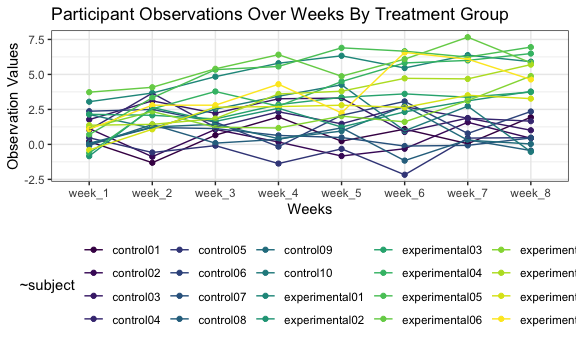
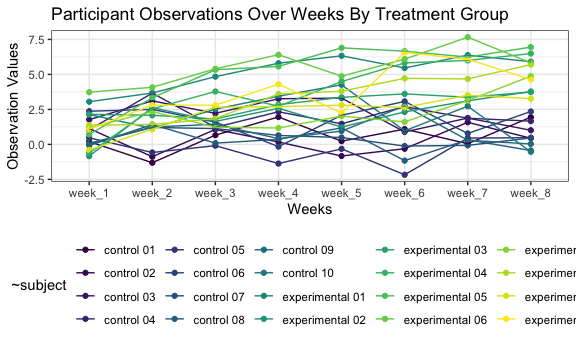
comments for spaghetti plot

diff --git a/p8105_hw5_hmb2161.md b/p8105_hw5_hmb2161.md
@@ -290,181 +290,182 @@ prob_data = tibble(
 
 prob_data =
 pivot_longer(prob_data, 
-             week_1:week_8,                  # pivoting longer to make each column a variable
+             week_1:week_8,                            # pivoting longer to make each column a variable
              names_to = "week",
               values_to = "observations") %>%
-  mutate(subject = str_remove(subject, "./hw5_data/"), # removing the beginning of the subject column
+  mutate(subject = str_remove(subject, "./hw5_data/"),    # removing beginning/end of the subject column
          subject = str_remove(subject, ".csv"),
-         subject = str_replace(subject, "con_", "control"),
-         subject = str_replace(subject, "exp_", "experimental")) %>% # and removing the beginning of the path of "subject"
-  select(subject, week, observations)
+         subject = str_replace(subject, "con_", "control "), # changing prefixes to full study arm
+         subject = str_replace(subject, "exp_", "experimental ")) %>% 
+  select(subject, week, observations)                   # selecting in the order I want  
 
-
-knitr::kable(prob_data)
+knitr::kable(prob_data)  # making a nice table
 ```
 
-| subject        | week    | observations |
-| :------------- | :------ | -----------: |
-| control01      | week\_1 |         0.20 |
-| control01      | week\_2 |       \-1.31 |
-| control01      | week\_3 |         0.66 |
-| control01      | week\_4 |         1.96 |
-| control01      | week\_5 |         0.23 |
-| control01      | week\_6 |         1.09 |
-| control01      | week\_7 |         0.05 |
-| control01      | week\_8 |         1.94 |
-| control02      | week\_1 |         1.13 |
-| control02      | week\_2 |       \-0.88 |
-| control02      | week\_3 |         1.07 |
-| control02      | week\_4 |         0.17 |
-| control02      | week\_5 |       \-0.83 |
-| control02      | week\_6 |       \-0.31 |
-| control02      | week\_7 |         1.58 |
-| control02      | week\_8 |         0.44 |
-| control03      | week\_1 |         1.77 |
-| control03      | week\_2 |         3.11 |
-| control03      | week\_3 |         2.22 |
-| control03      | week\_4 |         3.26 |
-| control03      | week\_5 |         3.31 |
-| control03      | week\_6 |         0.89 |
-| control03      | week\_7 |         1.88 |
-| control03      | week\_8 |         1.01 |
-| control04      | week\_1 |         1.04 |
-| control04      | week\_2 |         3.66 |
-| control04      | week\_3 |         1.22 |
-| control04      | week\_4 |         2.33 |
-| control04      | week\_5 |         1.47 |
-| control04      | week\_6 |         2.70 |
-| control04      | week\_7 |         1.87 |
-| control04      | week\_8 |         1.66 |
-| control05      | week\_1 |         0.47 |
-| control05      | week\_2 |       \-0.58 |
-| control05      | week\_3 |       \-0.09 |
-| control05      | week\_4 |       \-1.37 |
-| control05      | week\_5 |       \-0.32 |
-| control05      | week\_6 |       \-2.17 |
-| control05      | week\_7 |         0.45 |
-| control05      | week\_8 |         0.48 |
-| control06      | week\_1 |         2.37 |
-| control06      | week\_2 |         2.50 |
-| control06      | week\_3 |         1.59 |
-| control06      | week\_4 |       \-0.16 |
-| control06      | week\_5 |         2.08 |
-| control06      | week\_6 |         3.07 |
-| control06      | week\_7 |         0.78 |
-| control06      | week\_8 |         2.35 |
-| control07      | week\_1 |         0.03 |
-| control07      | week\_2 |         1.21 |
-| control07      | week\_3 |         1.13 |
-| control07      | week\_4 |         0.64 |
-| control07      | week\_5 |         0.49 |
-| control07      | week\_6 |       \-0.12 |
-| control07      | week\_7 |       \-0.07 |
-| control07      | week\_8 |         0.46 |
-| control08      | week\_1 |       \-0.08 |
-| control08      | week\_2 |         1.42 |
-| control08      | week\_3 |         0.09 |
-| control08      | week\_4 |         0.36 |
-| control08      | week\_5 |         1.18 |
-| control08      | week\_6 |       \-1.16 |
-| control08      | week\_7 |         0.33 |
-| control08      | week\_8 |       \-0.44 |
-| control09      | week\_1 |         0.08 |
-| control09      | week\_2 |         1.24 |
-| control09      | week\_3 |         1.44 |
-| control09      | week\_4 |         0.41 |
-| control09      | week\_5 |         0.95 |
-| control09      | week\_6 |         2.75 |
-| control09      | week\_7 |         0.30 |
-| control09      | week\_8 |         0.03 |
-| control10      | week\_1 |         2.14 |
-| control10      | week\_2 |         1.15 |
-| control10      | week\_3 |         2.52 |
-| control10      | week\_4 |         3.44 |
-| control10      | week\_5 |         4.26 |
-| control10      | week\_6 |         0.97 |
-| control10      | week\_7 |         2.73 |
-| control10      | week\_8 |       \-0.53 |
-| experimental01 | week\_1 |         3.05 |
-| experimental01 | week\_2 |         3.67 |
-| experimental01 | week\_3 |         4.84 |
-| experimental01 | week\_4 |         5.80 |
-| experimental01 | week\_5 |         6.33 |
-| experimental01 | week\_6 |         5.46 |
-| experimental01 | week\_7 |         6.38 |
-| experimental01 | week\_8 |         5.91 |
-| experimental02 | week\_1 |       \-0.84 |
-| experimental02 | week\_2 |         2.63 |
-| experimental02 | week\_3 |         1.64 |
-| experimental02 | week\_4 |         2.58 |
-| experimental02 | week\_5 |         1.24 |
-| experimental02 | week\_6 |         2.32 |
-| experimental02 | week\_7 |         3.11 |
-| experimental02 | week\_8 |         3.78 |
-| experimental03 | week\_1 |         2.15 |
-| experimental03 | week\_2 |         2.08 |
-| experimental03 | week\_3 |         1.82 |
-| experimental03 | week\_4 |         2.84 |
-| experimental03 | week\_5 |         3.36 |
-| experimental03 | week\_6 |         3.61 |
-| experimental03 | week\_7 |         3.37 |
-| experimental03 | week\_8 |         3.74 |
-| experimental04 | week\_1 |       \-0.62 |
-| experimental04 | week\_2 |         2.54 |
-| experimental04 | week\_3 |         3.78 |
-| experimental04 | week\_4 |         2.73 |
-| experimental04 | week\_5 |         4.49 |
-| experimental04 | week\_6 |         5.82 |
-| experimental04 | week\_7 |         6.00 |
-| experimental04 | week\_8 |         6.49 |
-| experimental05 | week\_1 |         0.70 |
-| experimental05 | week\_2 |         3.33 |
-| experimental05 | week\_3 |         5.34 |
-| experimental05 | week\_4 |         5.57 |
-| experimental05 | week\_5 |         6.90 |
-| experimental05 | week\_6 |         6.66 |
-| experimental05 | week\_7 |         6.24 |
-| experimental05 | week\_8 |         6.95 |
-| experimental06 | week\_1 |         3.73 |
-| experimental06 | week\_2 |         4.08 |
-| experimental06 | week\_3 |         5.40 |
-| experimental06 | week\_4 |         6.41 |
-| experimental06 | week\_5 |         4.87 |
-| experimental06 | week\_6 |         6.09 |
-| experimental06 | week\_7 |         7.66 |
-| experimental06 | week\_8 |         5.83 |
-| experimental07 | week\_1 |         1.18 |
-| experimental07 | week\_2 |         2.35 |
-| experimental07 | week\_3 |         1.23 |
-| experimental07 | week\_4 |         1.17 |
-| experimental07 | week\_5 |         2.02 |
-| experimental07 | week\_6 |         1.61 |
-| experimental07 | week\_7 |         3.13 |
-| experimental07 | week\_8 |         4.88 |
-| experimental08 | week\_1 |         1.37 |
-| experimental08 | week\_2 |         1.43 |
-| experimental08 | week\_3 |         1.84 |
-| experimental08 | week\_4 |         3.60 |
-| experimental08 | week\_5 |         3.80 |
-| experimental08 | week\_6 |         4.72 |
-| experimental08 | week\_7 |         4.68 |
-| experimental08 | week\_8 |         5.70 |
-| experimental09 | week\_1 |       \-0.40 |
-| experimental09 | week\_2 |         1.08 |
-| experimental09 | week\_3 |         2.66 |
-| experimental09 | week\_4 |         2.70 |
-| experimental09 | week\_5 |         2.80 |
-| experimental09 | week\_6 |         2.64 |
-| experimental09 | week\_7 |         3.51 |
-| experimental09 | week\_8 |         3.27 |
-| experimental10 | week\_1 |         1.09 |
-| experimental10 | week\_2 |         2.80 |
-| experimental10 | week\_3 |         2.80 |
-| experimental10 | week\_4 |         4.30 |
-| experimental10 | week\_5 |         2.25 |
-| experimental10 | week\_6 |         6.57 |
-| experimental10 | week\_7 |         6.09 |
-| experimental10 | week\_8 |         4.64 |
+| subject         | week    | observations |
+| :-------------- | :------ | -----------: |
+| control 01      | week\_1 |         0.20 |
+| control 01      | week\_2 |       \-1.31 |
+| control 01      | week\_3 |         0.66 |
+| control 01      | week\_4 |         1.96 |
+| control 01      | week\_5 |         0.23 |
+| control 01      | week\_6 |         1.09 |
+| control 01      | week\_7 |         0.05 |
+| control 01      | week\_8 |         1.94 |
+| control 02      | week\_1 |         1.13 |
+| control 02      | week\_2 |       \-0.88 |
+| control 02      | week\_3 |         1.07 |
+| control 02      | week\_4 |         0.17 |
+| control 02      | week\_5 |       \-0.83 |
+| control 02      | week\_6 |       \-0.31 |
+| control 02      | week\_7 |         1.58 |
+| control 02      | week\_8 |         0.44 |
+| control 03      | week\_1 |         1.77 |
+| control 03      | week\_2 |         3.11 |
+| control 03      | week\_3 |         2.22 |
+| control 03      | week\_4 |         3.26 |
+| control 03      | week\_5 |         3.31 |
+| control 03      | week\_6 |         0.89 |
+| control 03      | week\_7 |         1.88 |
+| control 03      | week\_8 |         1.01 |
+| control 04      | week\_1 |         1.04 |
+| control 04      | week\_2 |         3.66 |
+| control 04      | week\_3 |         1.22 |
+| control 04      | week\_4 |         2.33 |
+| control 04      | week\_5 |         1.47 |
+| control 04      | week\_6 |         2.70 |
+| control 04      | week\_7 |         1.87 |
+| control 04      | week\_8 |         1.66 |
+| control 05      | week\_1 |         0.47 |
+| control 05      | week\_2 |       \-0.58 |
+| control 05      | week\_3 |       \-0.09 |
+| control 05      | week\_4 |       \-1.37 |
+| control 05      | week\_5 |       \-0.32 |
+| control 05      | week\_6 |       \-2.17 |
+| control 05      | week\_7 |         0.45 |
+| control 05      | week\_8 |         0.48 |
+| control 06      | week\_1 |         2.37 |
+| control 06      | week\_2 |         2.50 |
+| control 06      | week\_3 |         1.59 |
+| control 06      | week\_4 |       \-0.16 |
+| control 06      | week\_5 |         2.08 |
+| control 06      | week\_6 |         3.07 |
+| control 06      | week\_7 |         0.78 |
+| control 06      | week\_8 |         2.35 |
+| control 07      | week\_1 |         0.03 |
+| control 07      | week\_2 |         1.21 |
+| control 07      | week\_3 |         1.13 |
+| control 07      | week\_4 |         0.64 |
+| control 07      | week\_5 |         0.49 |
+| control 07      | week\_6 |       \-0.12 |
+| control 07      | week\_7 |       \-0.07 |
+| control 07      | week\_8 |         0.46 |
+| control 08      | week\_1 |       \-0.08 |
+| control 08      | week\_2 |         1.42 |
+| control 08      | week\_3 |         0.09 |
+| control 08      | week\_4 |         0.36 |
+| control 08      | week\_5 |         1.18 |
+| control 08      | week\_6 |       \-1.16 |
+| control 08      | week\_7 |         0.33 |
+| control 08      | week\_8 |       \-0.44 |
+| control 09      | week\_1 |         0.08 |
+| control 09      | week\_2 |         1.24 |
+| control 09      | week\_3 |         1.44 |
+| control 09      | week\_4 |         0.41 |
+| control 09      | week\_5 |         0.95 |
+| control 09      | week\_6 |         2.75 |
+| control 09      | week\_7 |         0.30 |
+| control 09      | week\_8 |         0.03 |
+| control 10      | week\_1 |         2.14 |
+| control 10      | week\_2 |         1.15 |
+| control 10      | week\_3 |         2.52 |
+| control 10      | week\_4 |         3.44 |
+| control 10      | week\_5 |         4.26 |
+| control 10      | week\_6 |         0.97 |
+| control 10      | week\_7 |         2.73 |
+| control 10      | week\_8 |       \-0.53 |
+| experimental 01 | week\_1 |         3.05 |
+| experimental 01 | week\_2 |         3.67 |
+| experimental 01 | week\_3 |         4.84 |
+| experimental 01 | week\_4 |         5.80 |
+| experimental 01 | week\_5 |         6.33 |
+| experimental 01 | week\_6 |         5.46 |
+| experimental 01 | week\_7 |         6.38 |
+| experimental 01 | week\_8 |         5.91 |
+| experimental 02 | week\_1 |       \-0.84 |
+| experimental 02 | week\_2 |         2.63 |
+| experimental 02 | week\_3 |         1.64 |
+| experimental 02 | week\_4 |         2.58 |
+| experimental 02 | week\_5 |         1.24 |
+| experimental 02 | week\_6 |         2.32 |
+| experimental 02 | week\_7 |         3.11 |
+| experimental 02 | week\_8 |         3.78 |
+| experimental 03 | week\_1 |         2.15 |
+| experimental 03 | week\_2 |         2.08 |
+| experimental 03 | week\_3 |         1.82 |
+| experimental 03 | week\_4 |         2.84 |
+| experimental 03 | week\_5 |         3.36 |
+| experimental 03 | week\_6 |         3.61 |
+| experimental 03 | week\_7 |         3.37 |
+| experimental 03 | week\_8 |         3.74 |
+| experimental 04 | week\_1 |       \-0.62 |
+| experimental 04 | week\_2 |         2.54 |
+| experimental 04 | week\_3 |         3.78 |
+| experimental 04 | week\_4 |         2.73 |
+| experimental 04 | week\_5 |         4.49 |
+| experimental 04 | week\_6 |         5.82 |
+| experimental 04 | week\_7 |         6.00 |
+| experimental 04 | week\_8 |         6.49 |
+| experimental 05 | week\_1 |         0.70 |
+| experimental 05 | week\_2 |         3.33 |
+| experimental 05 | week\_3 |         5.34 |
+| experimental 05 | week\_4 |         5.57 |
+| experimental 05 | week\_5 |         6.90 |
+| experimental 05 | week\_6 |         6.66 |
+| experimental 05 | week\_7 |         6.24 |
+| experimental 05 | week\_8 |         6.95 |
+| experimental 06 | week\_1 |         3.73 |
+| experimental 06 | week\_2 |         4.08 |
+| experimental 06 | week\_3 |         5.40 |
+| experimental 06 | week\_4 |         6.41 |
+| experimental 06 | week\_5 |         4.87 |
+| experimental 06 | week\_6 |         6.09 |
+| experimental 06 | week\_7 |         7.66 |
+| experimental 06 | week\_8 |         5.83 |
+| experimental 07 | week\_1 |         1.18 |
+| experimental 07 | week\_2 |         2.35 |
+| experimental 07 | week\_3 |         1.23 |
+| experimental 07 | week\_4 |         1.17 |
+| experimental 07 | week\_5 |         2.02 |
+| experimental 07 | week\_6 |         1.61 |
+| experimental 07 | week\_7 |         3.13 |
+| experimental 07 | week\_8 |         4.88 |
+| experimental 08 | week\_1 |         1.37 |
+| experimental 08 | week\_2 |         1.43 |
+| experimental 08 | week\_3 |         1.84 |
+| experimental 08 | week\_4 |         3.60 |
+| experimental 08 | week\_5 |         3.80 |
+| experimental 08 | week\_6 |         4.72 |
+| experimental 08 | week\_7 |         4.68 |
+| experimental 08 | week\_8 |         5.70 |
+| experimental 09 | week\_1 |       \-0.40 |
+| experimental 09 | week\_2 |         1.08 |
+| experimental 09 | week\_3 |         2.66 |
+| experimental 09 | week\_4 |         2.70 |
+| experimental 09 | week\_5 |         2.80 |
+| experimental 09 | week\_6 |         2.64 |
+| experimental 09 | week\_7 |         3.51 |
+| experimental 09 | week\_8 |         3.27 |
+| experimental 10 | week\_1 |         1.09 |
+| experimental 10 | week\_2 |         2.80 |
+| experimental 10 | week\_3 |         2.80 |
+| experimental 10 | week\_4 |         4.30 |
+| experimental 10 | week\_5 |         2.25 |
+| experimental 10 | week\_6 |         6.57 |
+| experimental 10 | week\_7 |         6.09 |
+| experimental 10 | week\_8 |         4.64 |
+
+NEED TO GROUP BY ARM
 
 # Problem 2: plot
 
@@ -486,3 +487,15 @@ plot_ppt_data
 ```
 
 <img src="p8105_hw5_hmb2161_files/figure-gfm/unnamed-chunk-3-1.png" width="90%" />
+
+The resulting plot shows the observation values for each participant
+over the course of 8 weeks. The control group appear to have lower
+observation values across weeks of the study compared to the
+experimental arm. The participants generally start from a similar
+baseline (the groups are overlapped), but as the trial moves forward,
+the measurements get much higher for the experimental group and stay
+about the same for the control group.
+
+ADD AVERAGES MAX/MIN ONCE GET IT GROUPED BY ARM
+
+# Problem 3
